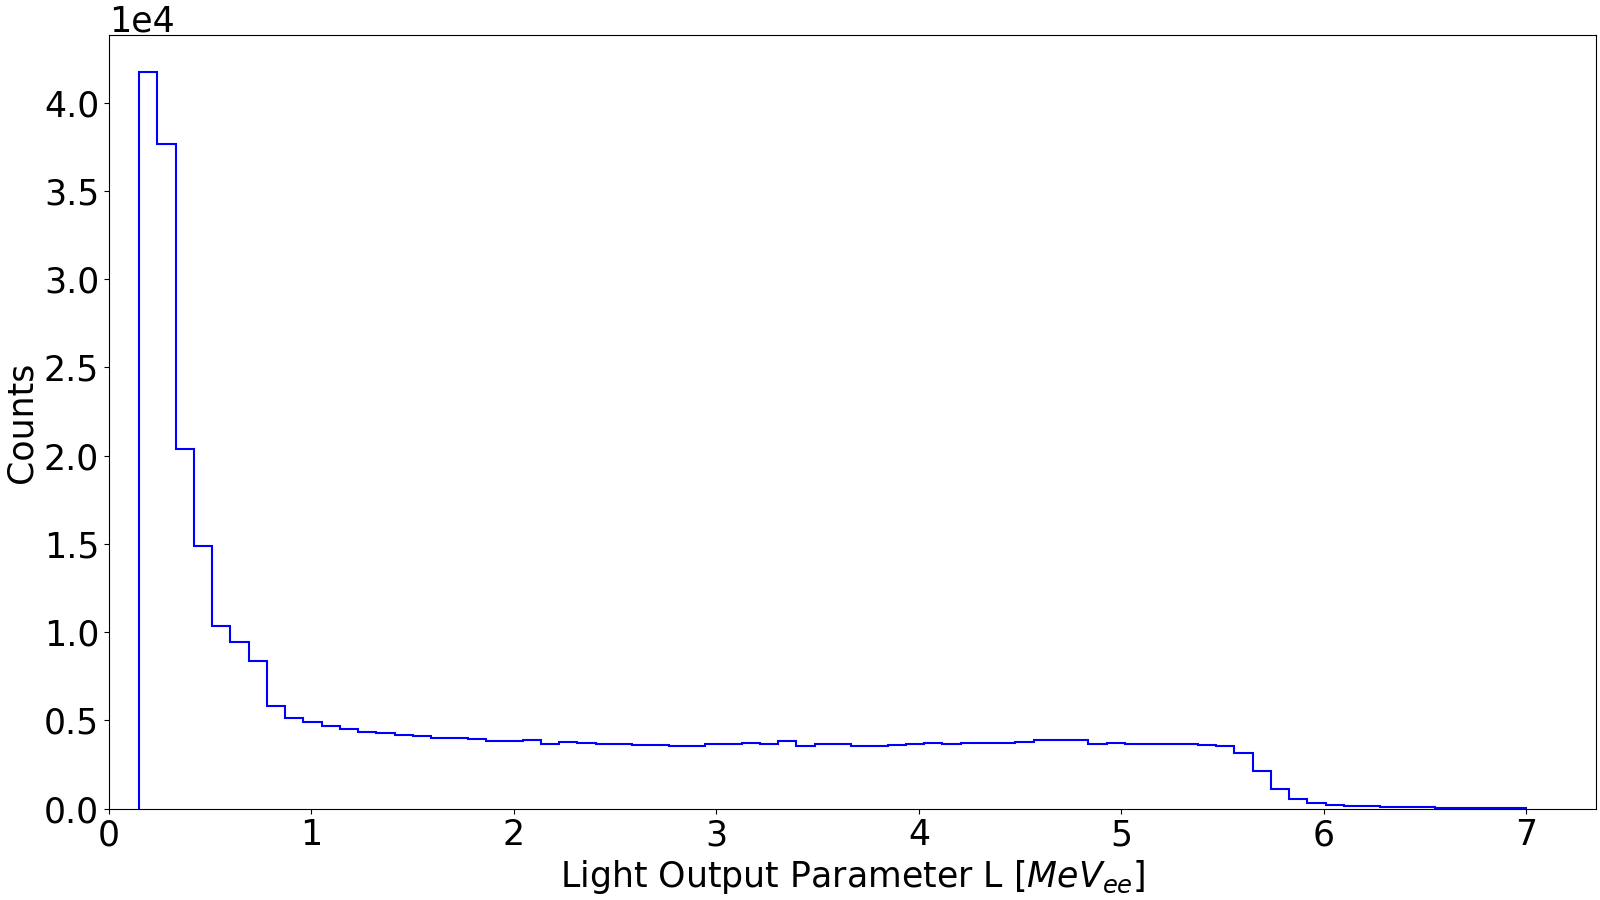
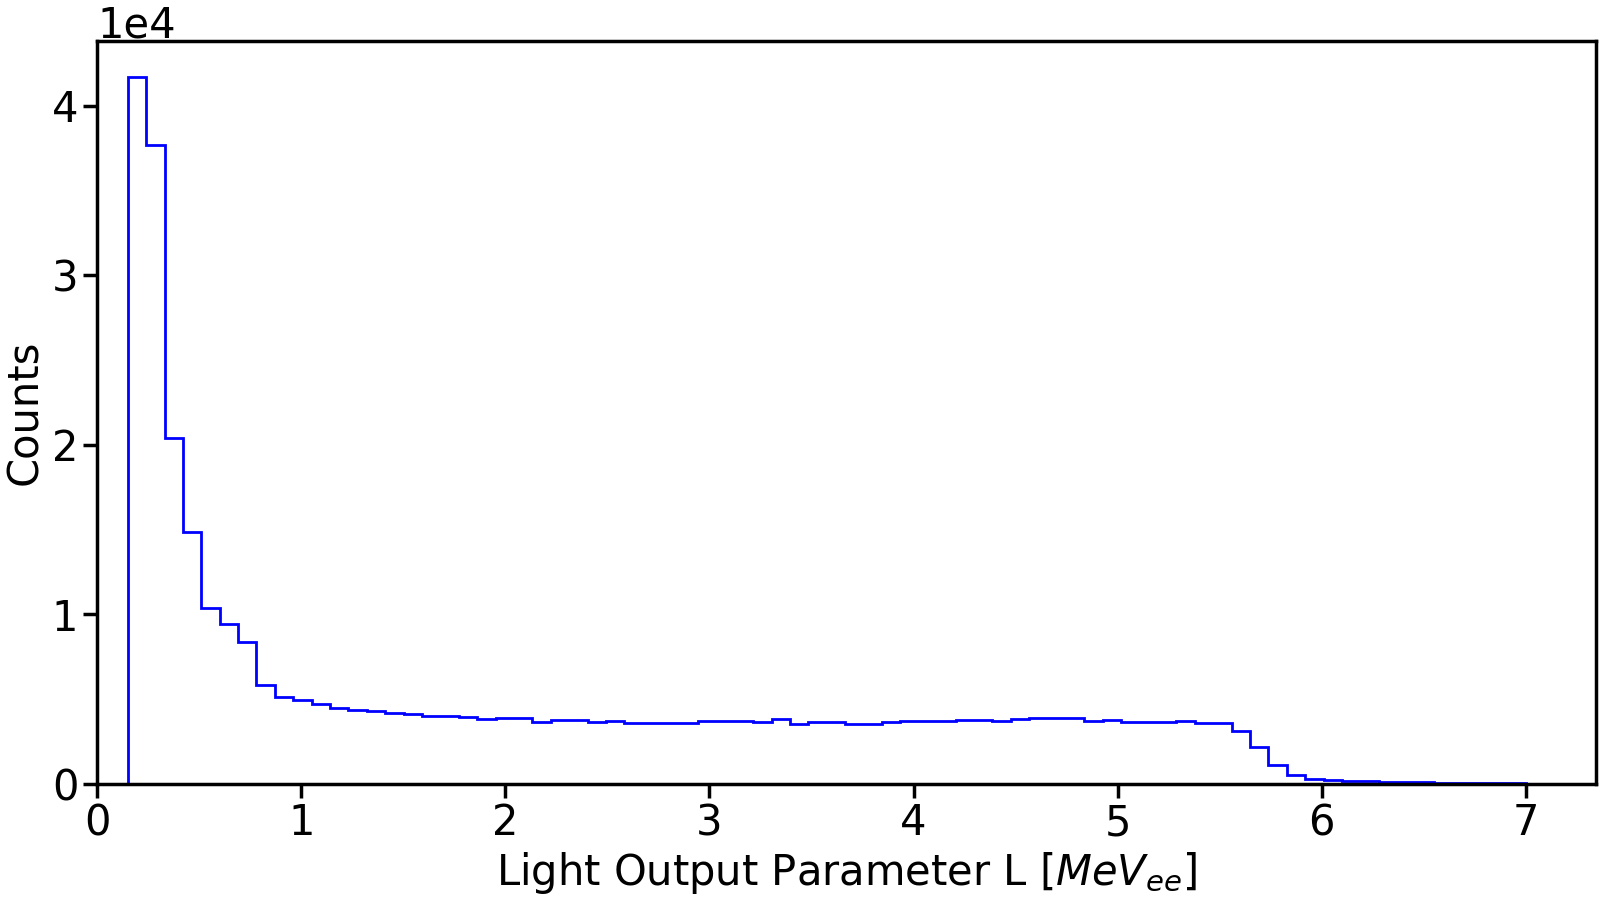
vault backup: 2024-08-29 14:26:38

diff --git a/MSc/To-Do files/Make example plots of spectra and 2dhists for us to argue about, so we don't have to argue about them every single time..md b/MSc/To-Do files/Make example plots of spectra and 2dhists for us to argue about, so we don't have to argue about them every single time..md
@@ -1,30 +1,35 @@
-
+# Always make sure the axes start and end with a tick, unless there is a good reason not to. 
 # Event Trace
 ```python
-plt.figure(figsize=(13,9), layout='constrained')
+fig = plt.figure(layout='constrained', figsize=(13,9))
+ax = fig.add_subplot(111)
 matplotlib.rcParams.update({'font.size': 30})
 
-plt.plot(trace_x, trace_0, label='', lw=2, color='blue')
+plt.plot(trace_x, trace_0, label='', lw=3, color='blue')
 
-plt.plot(trace_x, trace_1, label='', lw=2, color='red', ls='-.')
+plt.plot(trace_x, trace_1, label='', lw=3, color='red', ls='-.')
 
-plt.plot(trace_x, trace_2, label='', lw=2, color='green', ls='--')
+plt.plot(trace_x, trace_2, label='', lw=3, color='green', ls='--')
 
 
 plt.xlabel('Time [ns]')
 plt.ylabel('Voltage above baseline [a.u.]')
 plt.ticklabel_format(axis='y', scilimits=[-3,3])
 
+for axis in ['top','bottom','left','right']:
+	ax.spines[axis].set_linewidth(2.5)
+
+ax.tick_params(axis='both', which='major', width=2.5, length=10)
+
 # legend to be in best place to not cover trace
 plt.legend(frameon=False)
 
 # floating y-lims because baseline goes below 0
-plt.xlim(left=trace_x[0], right=trace_x[-1])
+plt.xlim(left=trace_x[0], right=2000)
 
 plt.show()
 ```
-![[MSc/To-Do files/attachments/ToF_event_trace.png]]
-
+![[Pasted image 20240829140852.png]]
 
 # Light Output Spectrum
 ```python
@@ -46,8 +51,8 @@ plt.ticklabel_format(axis='y', scilimits=[-3,3])
 
 plt.show()
 ```
-![[AMANDE_14_1_L_coarse 1.png]]
-![[AMANDE_14_1_L_fine 1.png]]
+![[./attachments/AMANDE_14_1_L_coarse.png]]
+![[AMANDE_14_1_L_fine.png]]
 
 
 # Neutron Energy Spectrum
